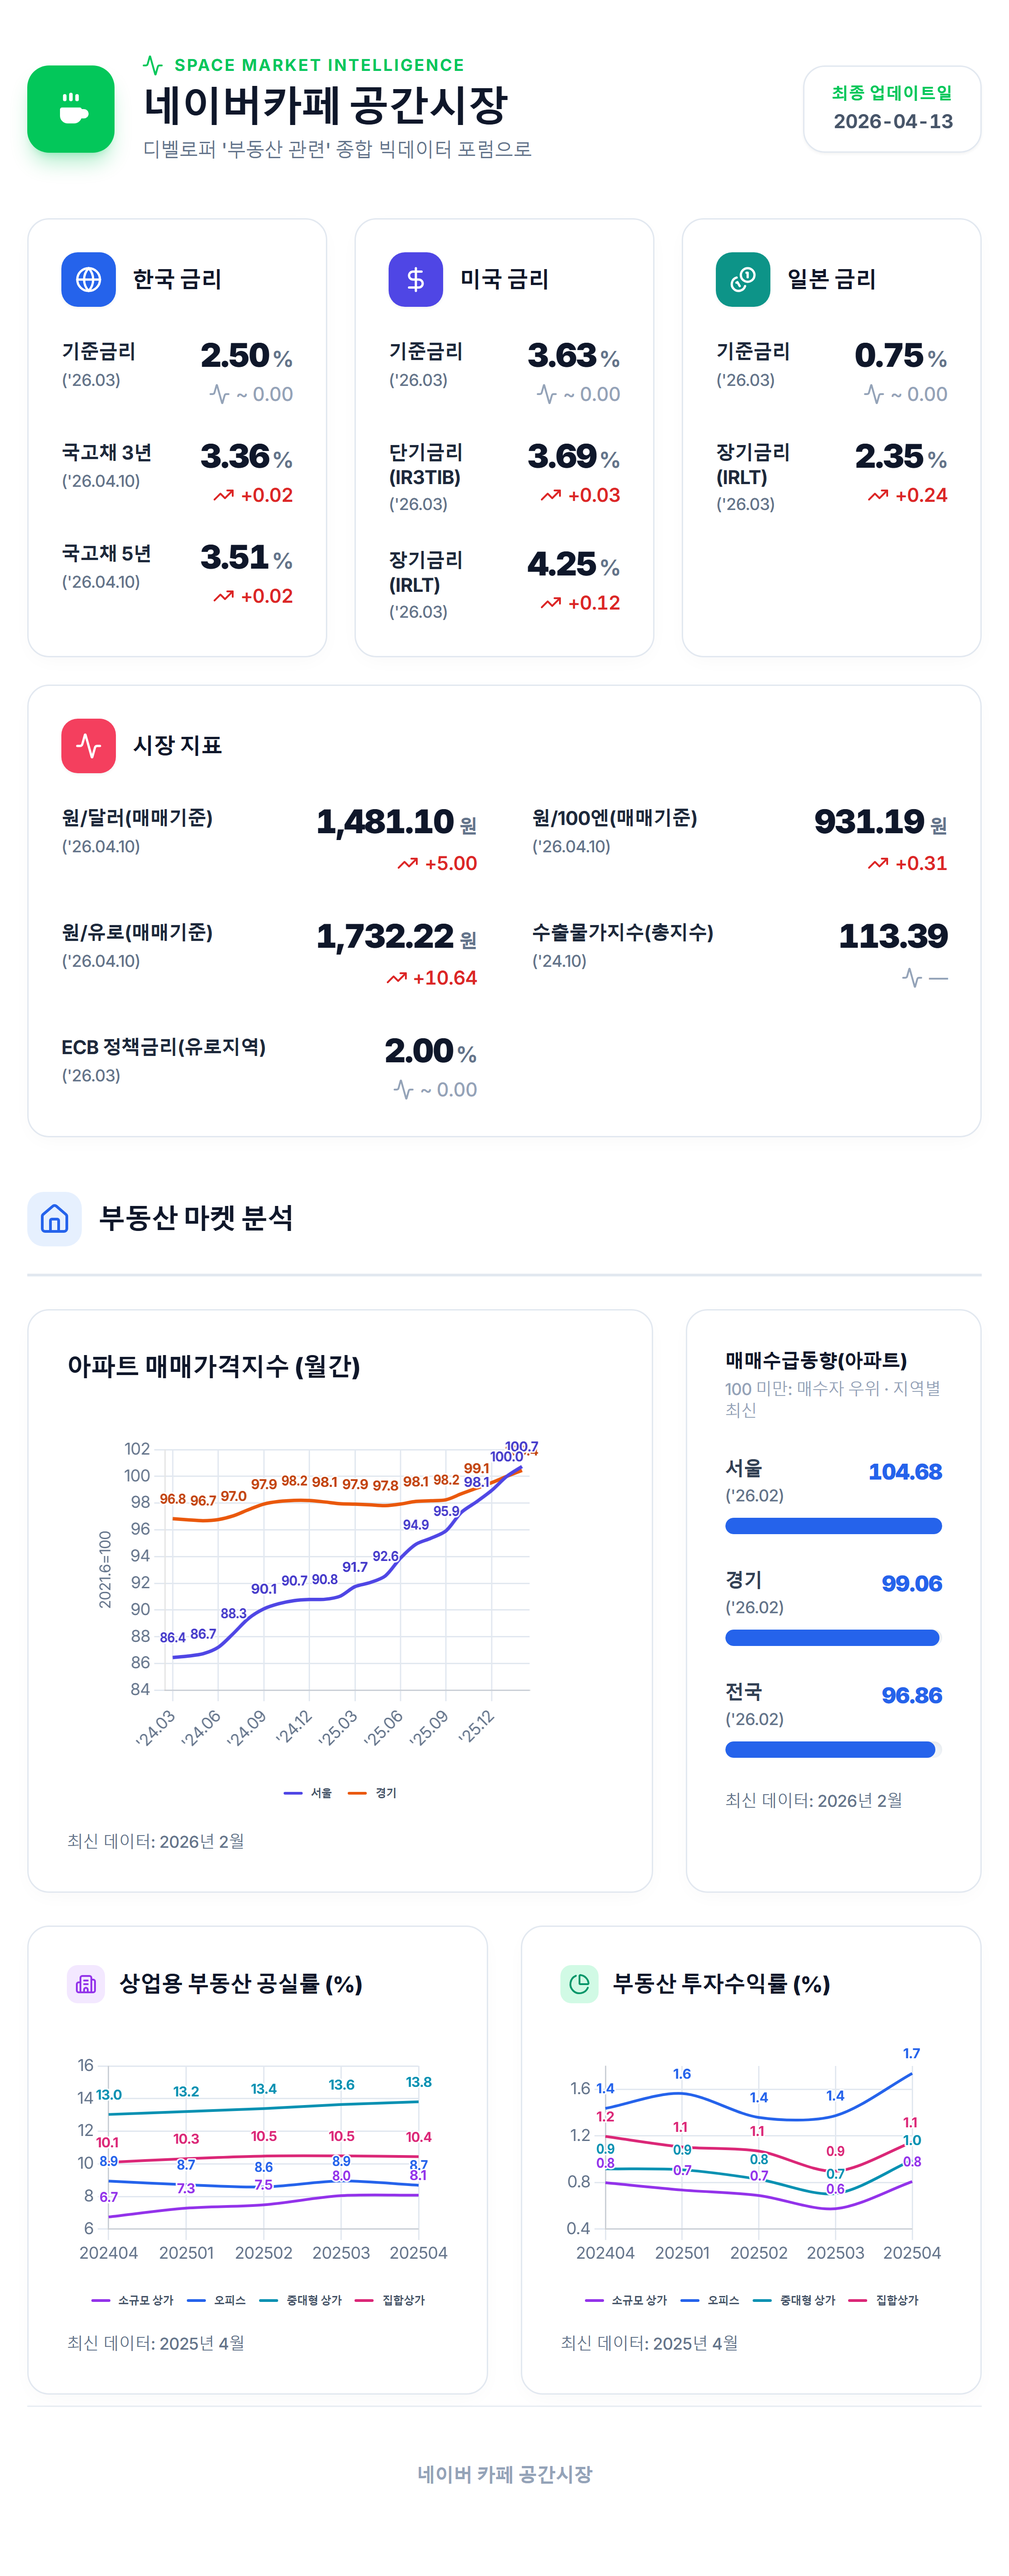
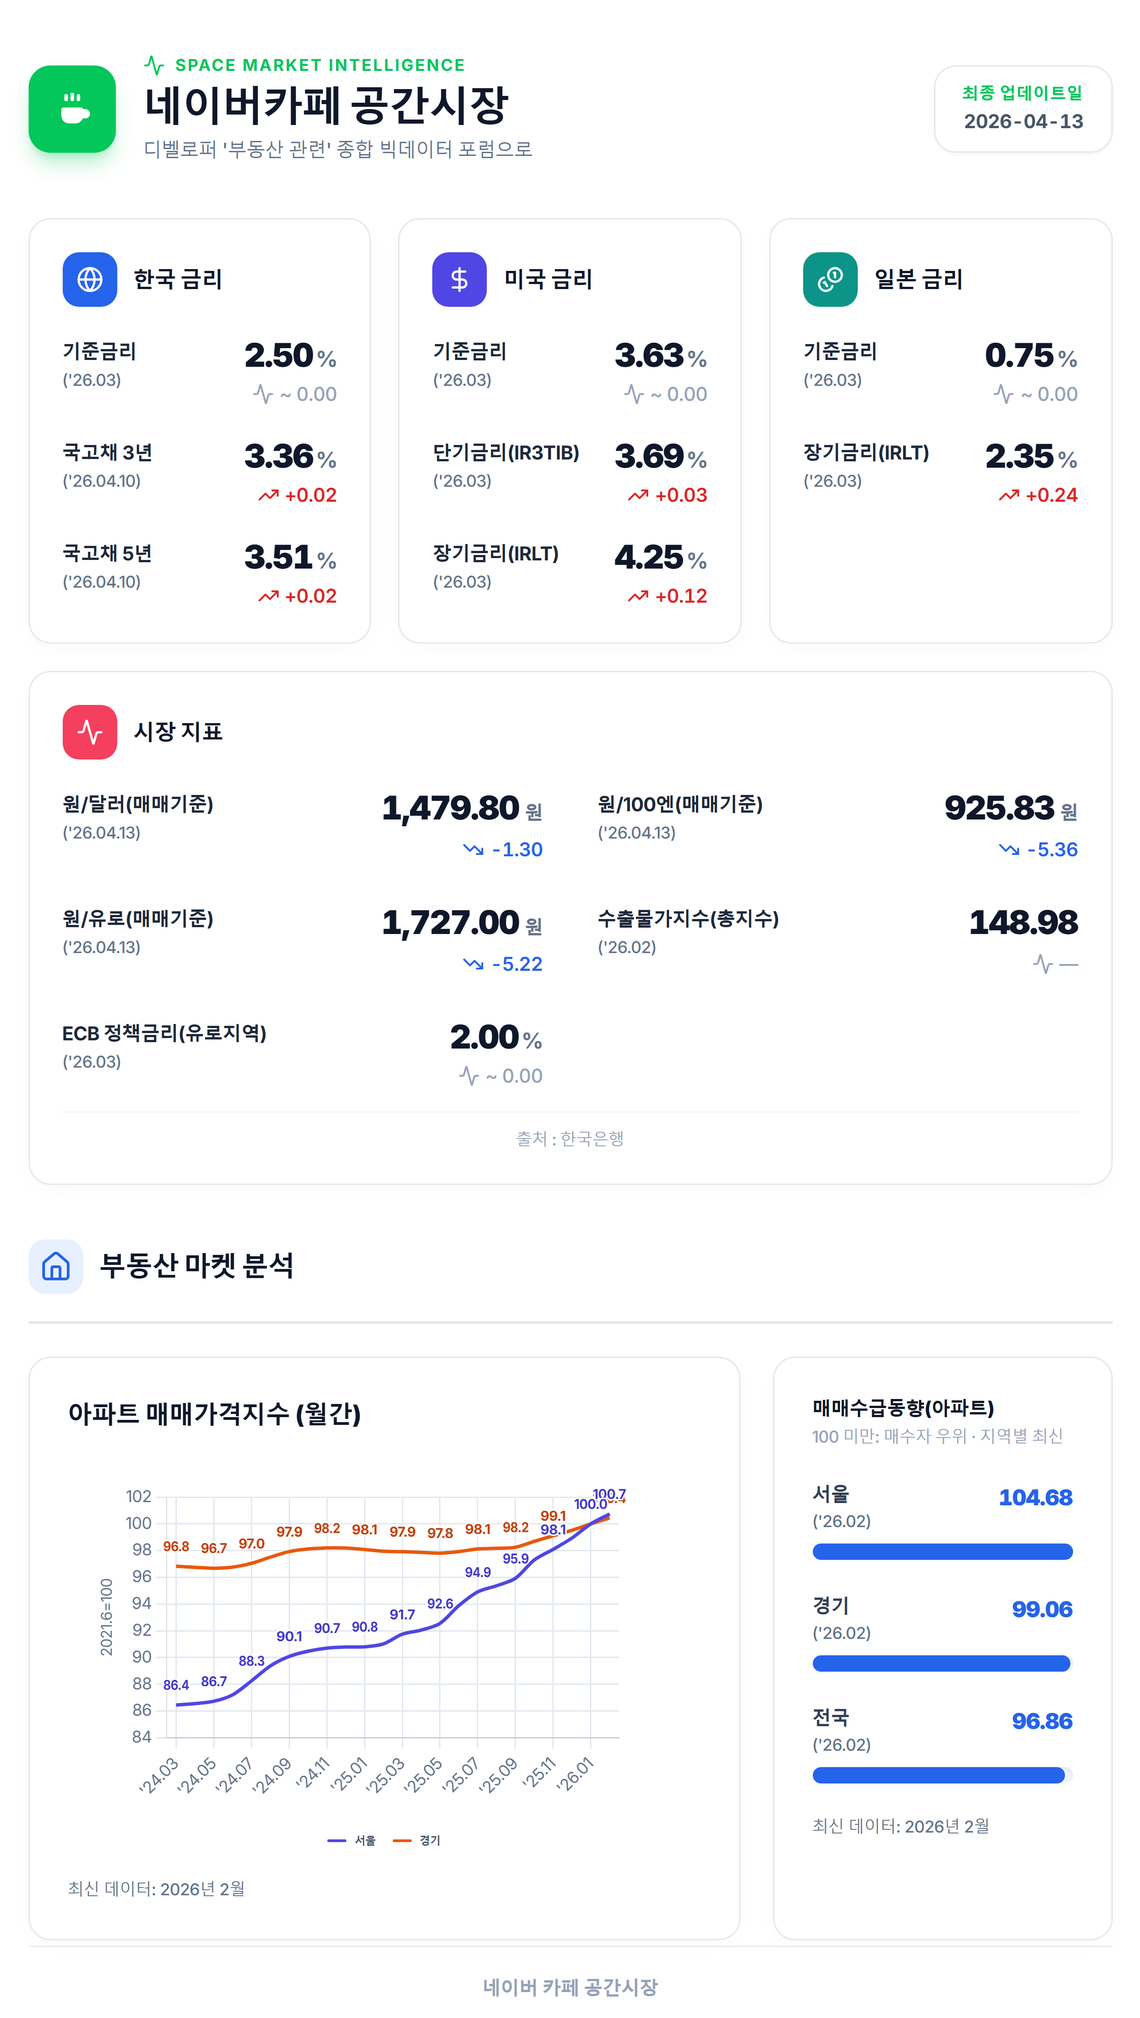
chore: ticker update

diff --git a/docs/index.html b/docs/index.html
@@ -34,10 +34,10 @@
     line-height: 1.6;
   }
   .fixed-container {
-    width: 740px;
+    width: 835px;
     max-width: 100%;
     margin: 0 auto;
-    padding: 40px 20px 16px 20px;
+    padding: 40px 20px 8px 20px;
   }
   @keyframes spin-slow {
     from { transform: rotate(0deg); }
@@ -54,7 +54,7 @@
   /* ticker.png 캡처 전용: 헤더·금리 3열·시장지표만 (부동산 마켓 분석 제외) */
   #ticker-board {
     width: 100%;
-    max-width: 740px;
+    max-width: 835px;
     margin: 0 auto;
   }
 </style>
@@ -137,7 +137,7 @@
     </div>
   </main>
 
-  <footer class="text-center text-sm font-semibold text-slate-400 tracking-tight pt-8 pb-2 mt-2 border-t border-slate-200/80">
+  <footer class="text-center text-sm font-semibold text-slate-400 tracking-tight pt-5 pb-1 mt-1 border-t border-slate-200/80">
     네이버 카페 공간시장
   </footer>
 </div>
@@ -194,6 +194,15 @@
     var d = document.createElement("div");
     d.textContent = s;
     return d.innerHTML;
+  }
+
+  /** 시장 지표에서 제외: 상업용 부동산 공실률, 부동산 투자수익률 */
+  function shouldHideMarketLine(text) {
+    if (text == null || text === "") return false;
+    var l = String(text).replace(/\s+/g, "");
+    if (l.indexOf("상업용") !== -1 && l.indexOf("공실률") !== -1) return true;
+    if (l.indexOf("부동산") !== -1 && l.indexOf("투자수익률") !== -1) return true;
+    return false;
   }
 
   /** 미국·일본 금리: data.json의 rate_decimals와 무관하게 소수 둘째 자리까지 표시 */
@@ -269,13 +278,16 @@
     if (!s || s.time == null || s.time === "") return "";
     var raw = String(s.time);
     var digits = raw.replace(/\D/g, "");
+    var datePart = "";
     if (isDailySeriesNote(s.note)) {
-      if (digits.length >= 8) return yyDotMmDdFromTime(digits.slice(0, 8));
-      if (digits.length >= 6) return yyDotMmFromTime(digits.slice(0, 6));
-      return "";
+      if (digits.length >= 8) datePart = yyDotMmDdFromTime(digits.slice(0, 8));
+      else if (digits.length >= 6) datePart = yyDotMmFromTime(digits.slice(0, 6));
+    } else if (digits.length >= 6) {
+      datePart = yyDotMmFromTime(digits.slice(0, 6));
     }
-    if (digits.length >= 6) return yyDotMmFromTime(digits.slice(0, 6));
-    return "";
+    if (!datePart) return "";
+    if (s.trade_time) return datePart + " " + s.trade_time;
+    return datePart;
   }
 
   function krRateChangeLine(delta_pp) {
@@ -394,7 +406,7 @@
       (dt ? '<div class="mt-1 text-xs font-medium text-slate-500">' + esc("(" + dt + ")") + "</div>" : "") +
       "</div>";
     var sub =
-      s.market_sub && String(s.market_sub).trim()
+      s.market_sub && String(s.market_sub).trim() && !shouldHideMarketLine(s.market_sub)
         ? '<div class="mt-1 max-w-[16rem] text-right text-xs font-medium text-slate-500">' + esc(s.market_sub) + "</div>"
         : '<div class="mt-1">' + krRateChangeLine(s.delta_pp) + "</div>";
     var right =
@@ -425,14 +437,21 @@
     return financeRowMetricHtml(label, s);
   }
 
-  /** 한국·미국·일본 금리·시장 지표 공통 카드. innerClass: 시장 지표 등에서 2열 그리드용 */
-  function financeSectionRates(title, icon, colorClass, rowDefs, innerClass) {
+  /** 한국·미국·일본 금리·시장 지표 공통 카드. innerClass: 시장 지표 등에서 2열 그리드용. footerText: 카드 하단 출처(선택) */
+  function financeSectionRates(title, icon, colorClass, rowDefs, innerClass, footerText) {
     innerClass = innerClass || "space-y-6";
     var inner = rowDefs
       .map(function (def) {
         return financeRowUnified(def.label, def.s);
       })
       .join("");
+    var footer = "";
+    if (footerText) {
+      footer =
+        '<div class="mt-4 pt-3 border-t border-slate-100 text-center text-xs font-medium text-slate-400">' +
+        esc(footerText) +
+        "</div>";
+    }
     return (
       '<div class="min-w-0 bg-white rounded-2xl p-6 shadow-[0_4px_16px_-4px_rgba(0,0,0,0.04)] border border-slate-200">' +
         '<div class="flex items-center gap-3 mb-6">' +
@@ -452,6 +471,7 @@
         '">' +
         inner +
         "</div>" +
+        footer +
         "</div>"
     );
   }
@@ -557,7 +577,26 @@
     };
   }
 
-  fetch("data.json?v=" + Date.now())
+  function parseTickerVersionTxt(text) {
+    var lines = String(text || "").split(/\r?\n/);
+    for (var i = 0; i < lines.length; i++) {
+      var line = lines[i].trim();
+      if (line && line.charAt(0) !== "#") return line;
+    }
+    return "1";
+  }
+
+  fetch("ticker_version.txt?t=" + Date.now(), { cache: "no-store" })
+    .then(function (r) {
+      return r.ok ? r.text() : "";
+    })
+    .catch(function () {
+      return "";
+    })
+    .then(function (txt) {
+      var v = parseTickerVersionTxt(txt);
+      return fetch("data.json?v=" + encodeURIComponent(v), { cache: "no-store" });
+    })
     .then(function (r) {
       if (!r.ok) throw new Error("data.json 응답 오류 (" + r.status + ")");
       return r.json();
@@ -585,7 +624,9 @@
         { label: (s.fx_eur && s.fx_eur.label) || "원/유로(매매기준)", s: s.fx_eur },
         { label: (s.export_px && s.export_px.label) || "수출물가지수", s: s.export_px },
         { label: (s.ecb_rate && s.ecb_rate.label) || "ECB 정책금리(유로지역)", s: s.ecb_rate },
-      ];
+      ].filter(function (def) {
+        return !shouldHideMarketLine(def.label);
+      });
 
       var jpRateDefs = [
         { label: "기준금리", s: seriesRate2Decimals(s.jp_policy) },
@@ -602,7 +643,8 @@
         "activity",
         "bg-rose-500",
         marketDefs,
-        "grid grid-cols-1 gap-x-10 gap-y-8 min-[721px]:grid-cols-2"
+        "grid grid-cols-1 gap-x-10 gap-y-8 min-[721px]:grid-cols-2",
+        "출처 : 한국은행"
       );
 
       var he = data.housing_ecos || {};

diff --git a/cafe-door.html b/cafe-door.html
@@ -1,9 +1,9 @@
 <div style="width:100%;text-align:center;">
-<table width="100%" border="0" cellspacing="0" cellpadding="0" align="center" style="width:100%;max-width:740px;margin:0 auto;border-collapse:collapse;">
+<table width="100%" border="0" cellspacing="0" cellpadding="0" align="center" style="width:100%;max-width:835px;margin:0 auto;border-collapse:collapse;">
 <tbody>
 <tr>
 <td align="center" style="padding:0;line-height:0;">
-<a href="https://cafe.naver.com/speedgoodroom" target="_blank" rel="noopener noreferrer"><img src="https://cdn.jsdelivr.net/gh/kjhwang725-maker/cafe@main/docs/ticker.png" width="740" style="width:740px;max-width:100%;height:auto;display:block;margin:0;padding:0;border:0"></a>
+<a href="https://cafe.naver.com/speedgoodroom" target="_blank" rel="noopener noreferrer" style="display:block;border:0;text-decoration:none"><img src="https://cdn.jsdelivr.net/gh/kjhwang725-maker/cafe@main/docs/ticker.png?v=1" width="835" style="width:835px;max-width:100%;height:auto;display:block;margin:0;padding:0;border:0" alt="" loading="eager" decoding="async"></a>
 </td>
 </tr>
 </tbody>
